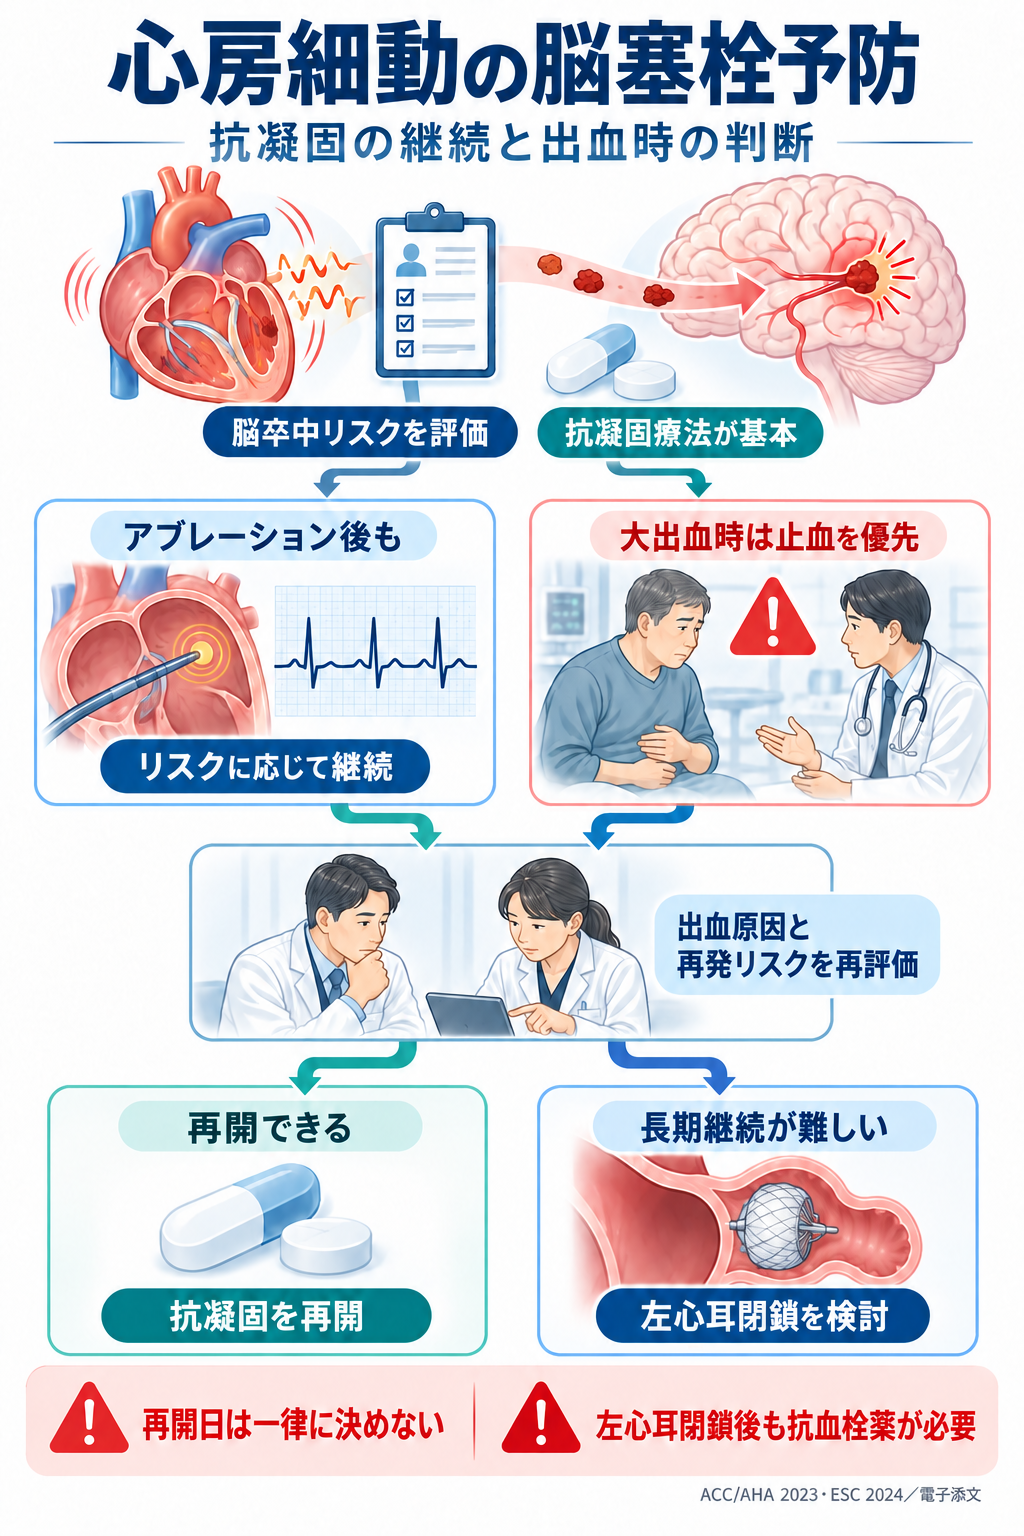
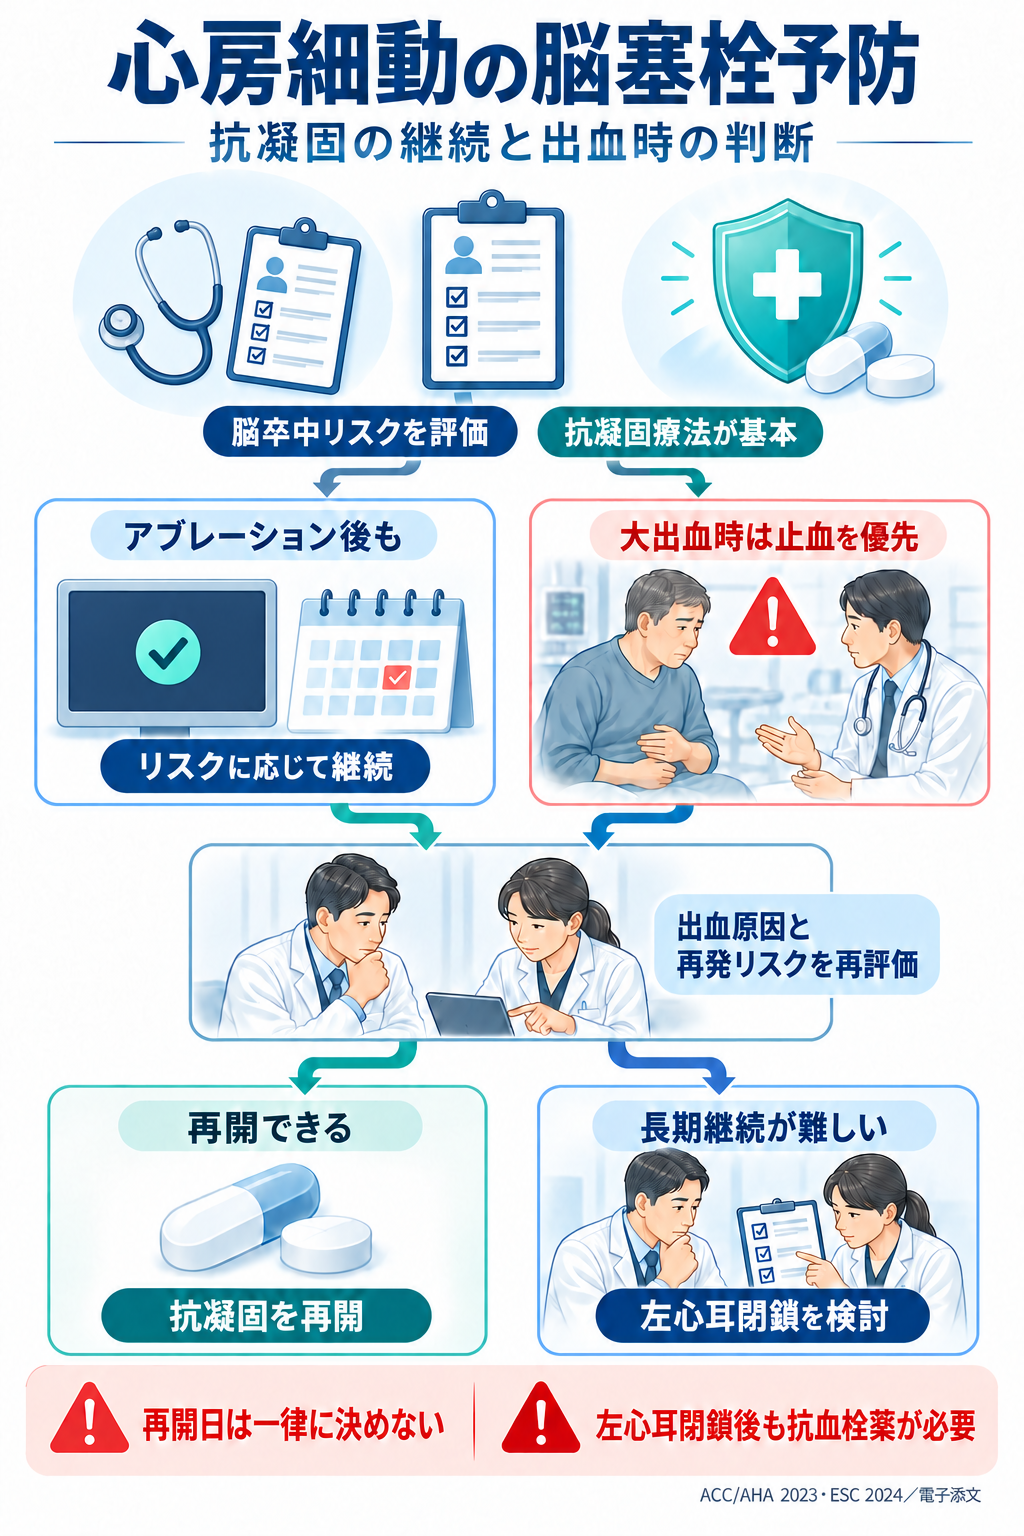
fix: remove unverified anatomy from batch30 infographics

diff --git a/infographics/minor-stroke-antithrombotics-reference-repair-20261026/index.html b/infographics/minor-stroke-antithrombotics-reference-repair-20261026/index.html
@@ -1,1 +1,1 @@
-<!doctype html><html lang="ja"><head><meta charset="utf-8"><meta name="viewport" content="width=device-width,initial-scale=1"><title>NIHSSスコア5点以下の軽症脳梗塞における急性期抗血栓療法の選択｜図解｜医知創造ラボ</title><meta name="description" content="NIHSSの点数だけで決めず、症状・画像・病型から判断します。抗血小板療法の選択は非心原性かどうかと出血リスクも確認します。"><style>body{margin:0;background:#f1f6fa;color:#17364d;font-family:"Yu Gothic",Meiryo,sans-serif;line-height:1.8}main{max-width:1100px;margin:auto;padding:18px}h1{font-size:1.6rem;line-height:1.5}figure{margin:28px 0;padding:16px;background:white;border-radius:12px}img{display:block;max-width:100%;height:auto;margin:auto}a{color:#075a93;overflow-wrap:anywhere}footer{padding:18px;border-top:1px solid #ccd}@media(max-width:600px){main{padding:12px}h1{font-size:1.25rem}figure{padding:8px}}</style></head><body><main><h1>NIHSSスコア5点以下の軽症脳梗塞における急性期抗血栓療法の選択</h1><p>根拠修復版の全体要約図です。図は概念図であり、個別の治療判断には原資料と専門医の評価が必要です。</p><figure><a href="infographic.png" target="_blank" rel="noopener noreferrer"><img src="infographic.png" alt="軽症脳梗塞の治療選択。障害性症状と画像を評価し、血栓溶解療法・抗血小板療法を検討する流れ。" width="1024" height="1536"></a><figcaption>NIHSSの点数だけで決めず、症状・画像・病型から判断します。抗血小板療法の選択は非心原性かどうかと出血リスクも確認します。</figcaption><p><a href="infographic.png" target="_blank" rel="noopener noreferrer">画像を原寸で開く</a></p></figure><footer><p>根拠確認日：2026年10月26日</p><p><a href="https://blog.ichisouzo-lab.com/entry/2025/10/08/142332">解説記事へ戻る</a></p></footer></main></body></html>
+<!doctype html><html lang="ja"><head><meta charset="utf-8"><meta name="viewport" content="width=device-width,initial-scale=1"><title>NIHSSスコア5点以下の軽症脳梗塞における急性期抗血栓療法の選択｜図解｜医知創造ラボ</title><meta name="description" content="NIHSSの点数だけで決めず、症状・画像・病型から判断します。抗血小板療法の選択は非心原性かどうかと出血リスクも確認します。 治療判断の概念図であり、解剖構造や施行手技を示す図ではありません。"><style>body{margin:0;background:#f1f6fa;color:#17364d;font-family:"Yu Gothic",Meiryo,sans-serif;line-height:1.8}main{max-width:1100px;margin:auto;padding:18px}h1{font-size:1.6rem;line-height:1.5}figure{margin:28px 0;padding:16px;background:white;border-radius:12px}img{display:block;max-width:100%;height:auto;margin:auto}a{color:#075a93;overflow-wrap:anywhere}footer{padding:18px;border-top:1px solid #ccd}@media(max-width:600px){main{padding:12px}h1{font-size:1.25rem}figure{padding:8px}}</style></head><body><main><h1>NIHSSスコア5点以下の軽症脳梗塞における急性期抗血栓療法の選択</h1><p>根拠修復版の全体要約図です。図は概念図であり、個別の治療判断には原資料と専門医の評価が必要です。</p><figure><a href="infographic.png" target="_blank" rel="noopener noreferrer"><img src="infographic.png" alt="軽症脳梗塞の治療選択。障害性症状と画像を評価し、血栓溶解療法・抗血小板療法を検討する流れ。" width="1024" height="1536"></a><figcaption>NIHSSの点数だけで決めず、症状・画像・病型から判断します。抗血小板療法の選択は非心原性かどうかと出血リスクも確認します。 治療判断の概念図であり、解剖構造や施行手技を示す図ではありません。</figcaption><p><a href="infographic.png" target="_blank" rel="noopener noreferrer">画像を原寸で開く</a></p></figure><footer><p>根拠確認日：2026年10月26日</p><p><a href="https://blog.ichisouzo-lab.com/entry/2025/10/08/142332">解説記事へ戻る</a></p></footer></main></body></html>

diff --git a/infographics/af-stroke-anticoagulation-reference-repair-20261026/index.html b/infographics/af-stroke-anticoagulation-reference-repair-20261026/index.html
@@ -1,1 +1,1 @@
-<!doctype html><html lang="ja"><head><meta charset="utf-8"><meta name="viewport" content="width=device-width,initial-scale=1"><title>心房細動による脳塞栓後の抗凝固療法：CHA₂DS₂-VASc評価と治療戦略｜図解｜医知創造ラボ</title><meta name="description" content="抗凝固の再開日は一律ではありません。WATCHMAN FLXは短期抗凝固と必要な抗血小板療法が可能であることなどを確認します。"><style>body{margin:0;background:#f1f6fa;color:#17364d;font-family:"Yu Gothic",Meiryo,sans-serif;line-height:1.8}main{max-width:1100px;margin:auto;padding:18px}h1{font-size:1.6rem;line-height:1.5}figure{margin:28px 0;padding:16px;background:white;border-radius:12px}img{display:block;max-width:100%;height:auto;margin:auto}a{color:#075a93;overflow-wrap:anywhere}footer{padding:18px;border-top:1px solid #ccd}@media(max-width:600px){main{padding:12px}h1{font-size:1.25rem}figure{padding:8px}}</style></head><body><main><h1>心房細動による脳塞栓後の抗凝固療法：CHA₂DS₂-VASc評価と治療戦略</h1><p>根拠修復版の全体要約図です。図は概念図であり、個別の治療判断には原資料と専門医の評価が必要です。</p><figure><a href="infographic.png" target="_blank" rel="noopener noreferrer"><img src="infographic.png" alt="心房細動の脳塞栓予防。抗凝固継続、大出血時の止血と再評価、再開または左心耳閉鎖術を検討する流れ。" width="1024" height="1536"></a><figcaption>抗凝固の再開日は一律ではありません。WATCHMAN FLXは短期抗凝固と必要な抗血小板療法が可能であることなどを確認します。</figcaption><p><a href="infographic.png" target="_blank" rel="noopener noreferrer">画像を原寸で開く</a></p></figure><footer><p>根拠確認日：2026年10月26日</p><p><a href="https://blog.ichisouzo-lab.com/entry/2025/09/04/184231">解説記事へ戻る</a></p></footer></main></body></html>
+<!doctype html><html lang="ja"><head><meta charset="utf-8"><meta name="viewport" content="width=device-width,initial-scale=1"><title>心房細動による脳塞栓後の抗凝固療法：CHA₂DS₂-VASc評価と治療戦略｜図解｜医知創造ラボ</title><meta name="description" content="抗凝固の再開日は一律ではありません。WATCHMAN FLXは短期抗凝固と必要な抗血小板療法が可能であることなどを確認します。 治療判断の概念図であり、解剖構造や施行手技を示す図ではありません。"><style>body{margin:0;background:#f1f6fa;color:#17364d;font-family:"Yu Gothic",Meiryo,sans-serif;line-height:1.8}main{max-width:1100px;margin:auto;padding:18px}h1{font-size:1.6rem;line-height:1.5}figure{margin:28px 0;padding:16px;background:white;border-radius:12px}img{display:block;max-width:100%;height:auto;margin:auto}a{color:#075a93;overflow-wrap:anywhere}footer{padding:18px;border-top:1px solid #ccd}@media(max-width:600px){main{padding:12px}h1{font-size:1.25rem}figure{padding:8px}}</style></head><body><main><h1>心房細動による脳塞栓後の抗凝固療法：CHA₂DS₂-VASc評価と治療戦略</h1><p>根拠修復版の全体要約図です。図は概念図であり、個別の治療判断には原資料と専門医の評価が必要です。</p><figure><a href="infographic.png" target="_blank" rel="noopener noreferrer"><img src="infographic.png" alt="心房細動の脳塞栓予防。抗凝固継続、大出血時の止血と再評価、再開または左心耳閉鎖術を検討する流れ。" width="1024" height="1536"></a><figcaption>抗凝固の再開日は一律ではありません。WATCHMAN FLXは短期抗凝固と必要な抗血小板療法が可能であることなどを確認します。 治療判断の概念図であり、解剖構造や施行手技を示す図ではありません。</figcaption><p><a href="infographic.png" target="_blank" rel="noopener noreferrer">画像を原寸で開く</a></p></figure><footer><p>根拠確認日：2026年10月26日</p><p><a href="https://blog.ichisouzo-lab.com/entry/2025/09/04/184231">解説記事へ戻る</a></p></footer></main></body></html>
